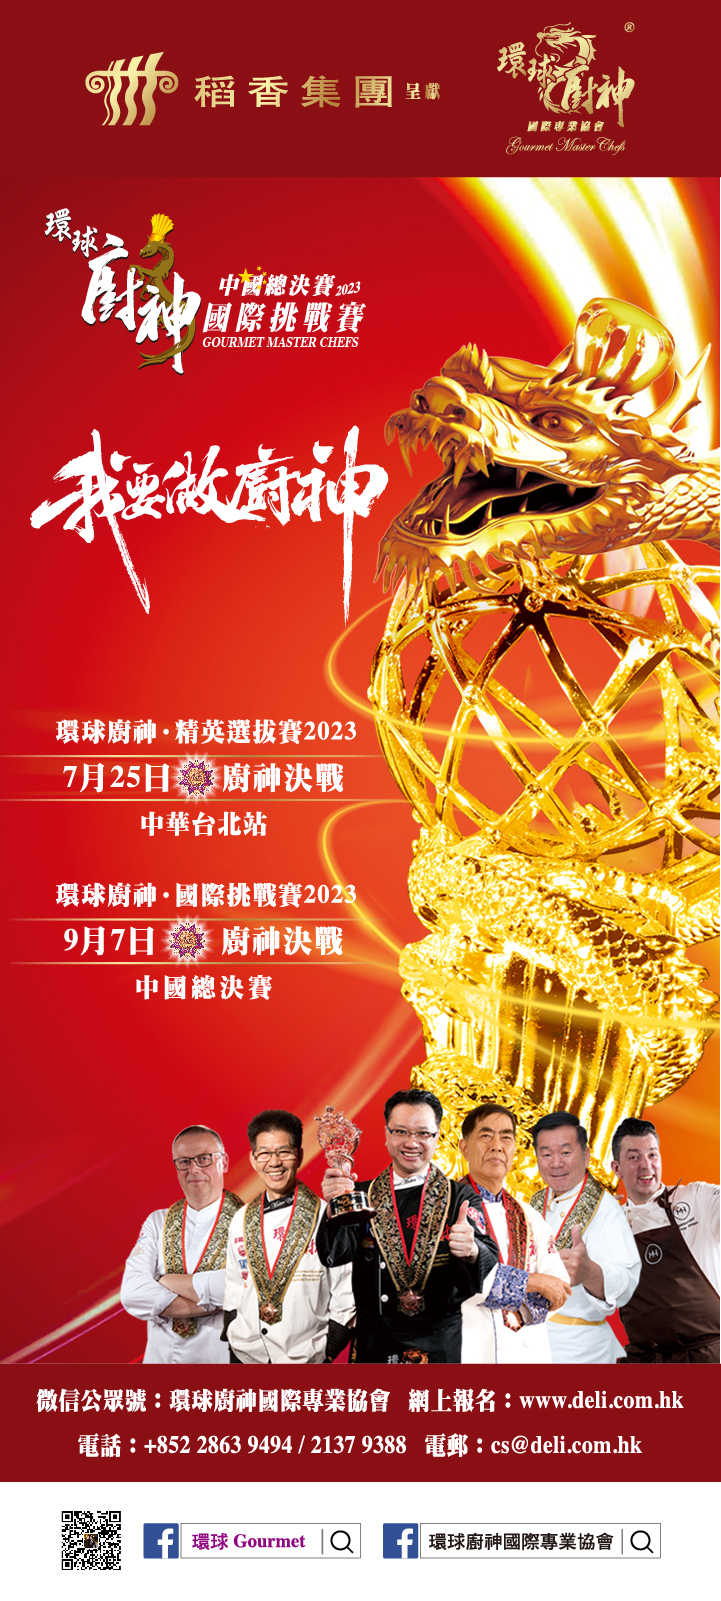
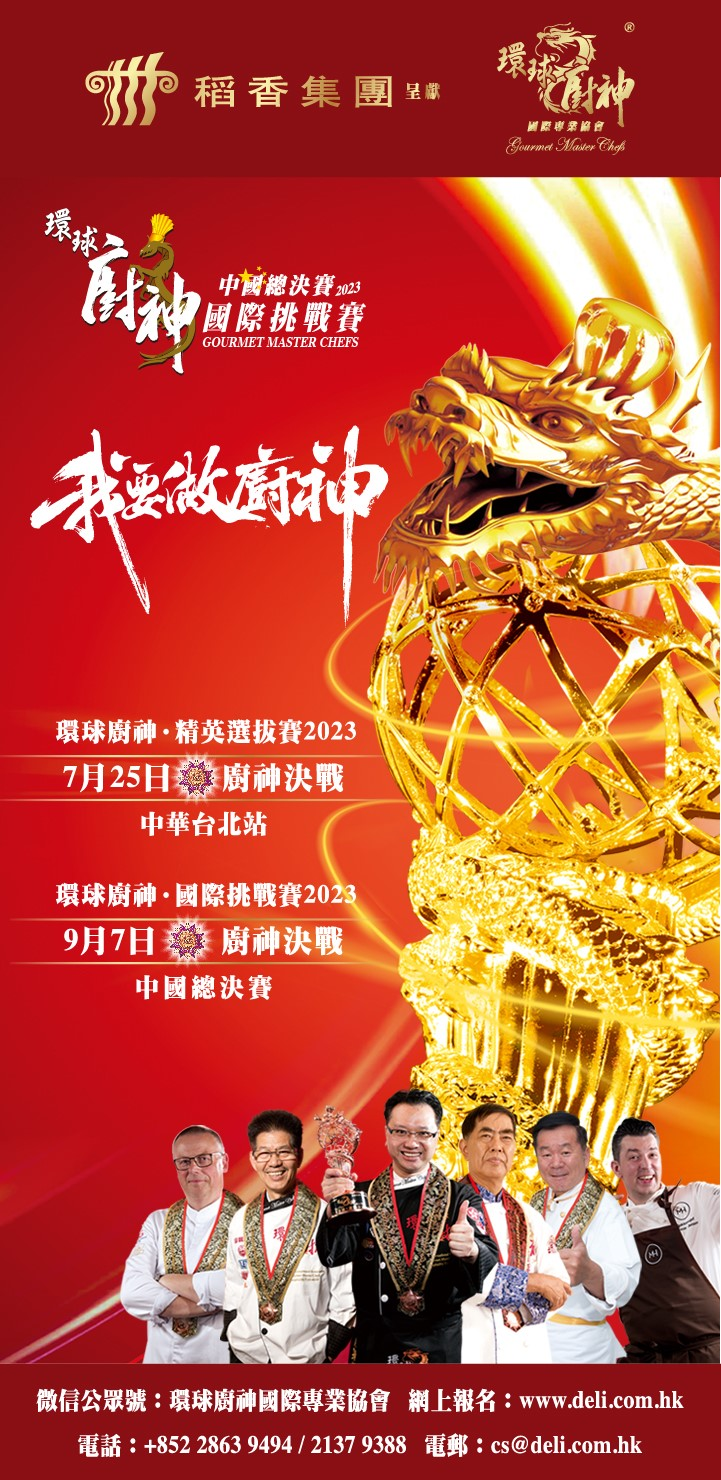
commit

diff --git a/2023/css/custome-css.css b/2023/css/custome-css.css
@@ -1,5 +1,5 @@
 body{
-    max-width: 1800px;
+    /* max-width: 1800px; */
     margin: 0px auto;
 }
 
@@ -12,6 +12,7 @@ body{
 }
 .top-header-img--img{
     height: 260px;
+    width: 100%;
 }
 .menu-bg{
     position: absolute;
@@ -87,7 +88,9 @@ body{
     max-width: 100%;
     margin: 0px auto;
 }
+/* @media only screen and (min-width:1600px){
 
+} */
 @media only screen and (max-width:991px){
     .top-header-img{
         overflow:visible !important;

diff --git a/css/custom-style.css b/css/custom-style.css
@@ -70,11 +70,6 @@ body {
     margin-bottom: 20px;
 }
 
-@media screen and (min-width: 1600px) {
-    .logos {
-        margin-bottom: 60px;
-    }
-}
 
 @media screen and (min-width: 2200px) {
     .logos {

diff --git a/2023/css/menu.css b/2023/css/menu.css
@@ -62,3 +62,9 @@
 .footer-menu ul li a:hover {
     color: #c70000;
 }
+
+@media screen and (min-width: 1800px) {
+    .top-menu {
+            right: 15%;
+        }
+}
